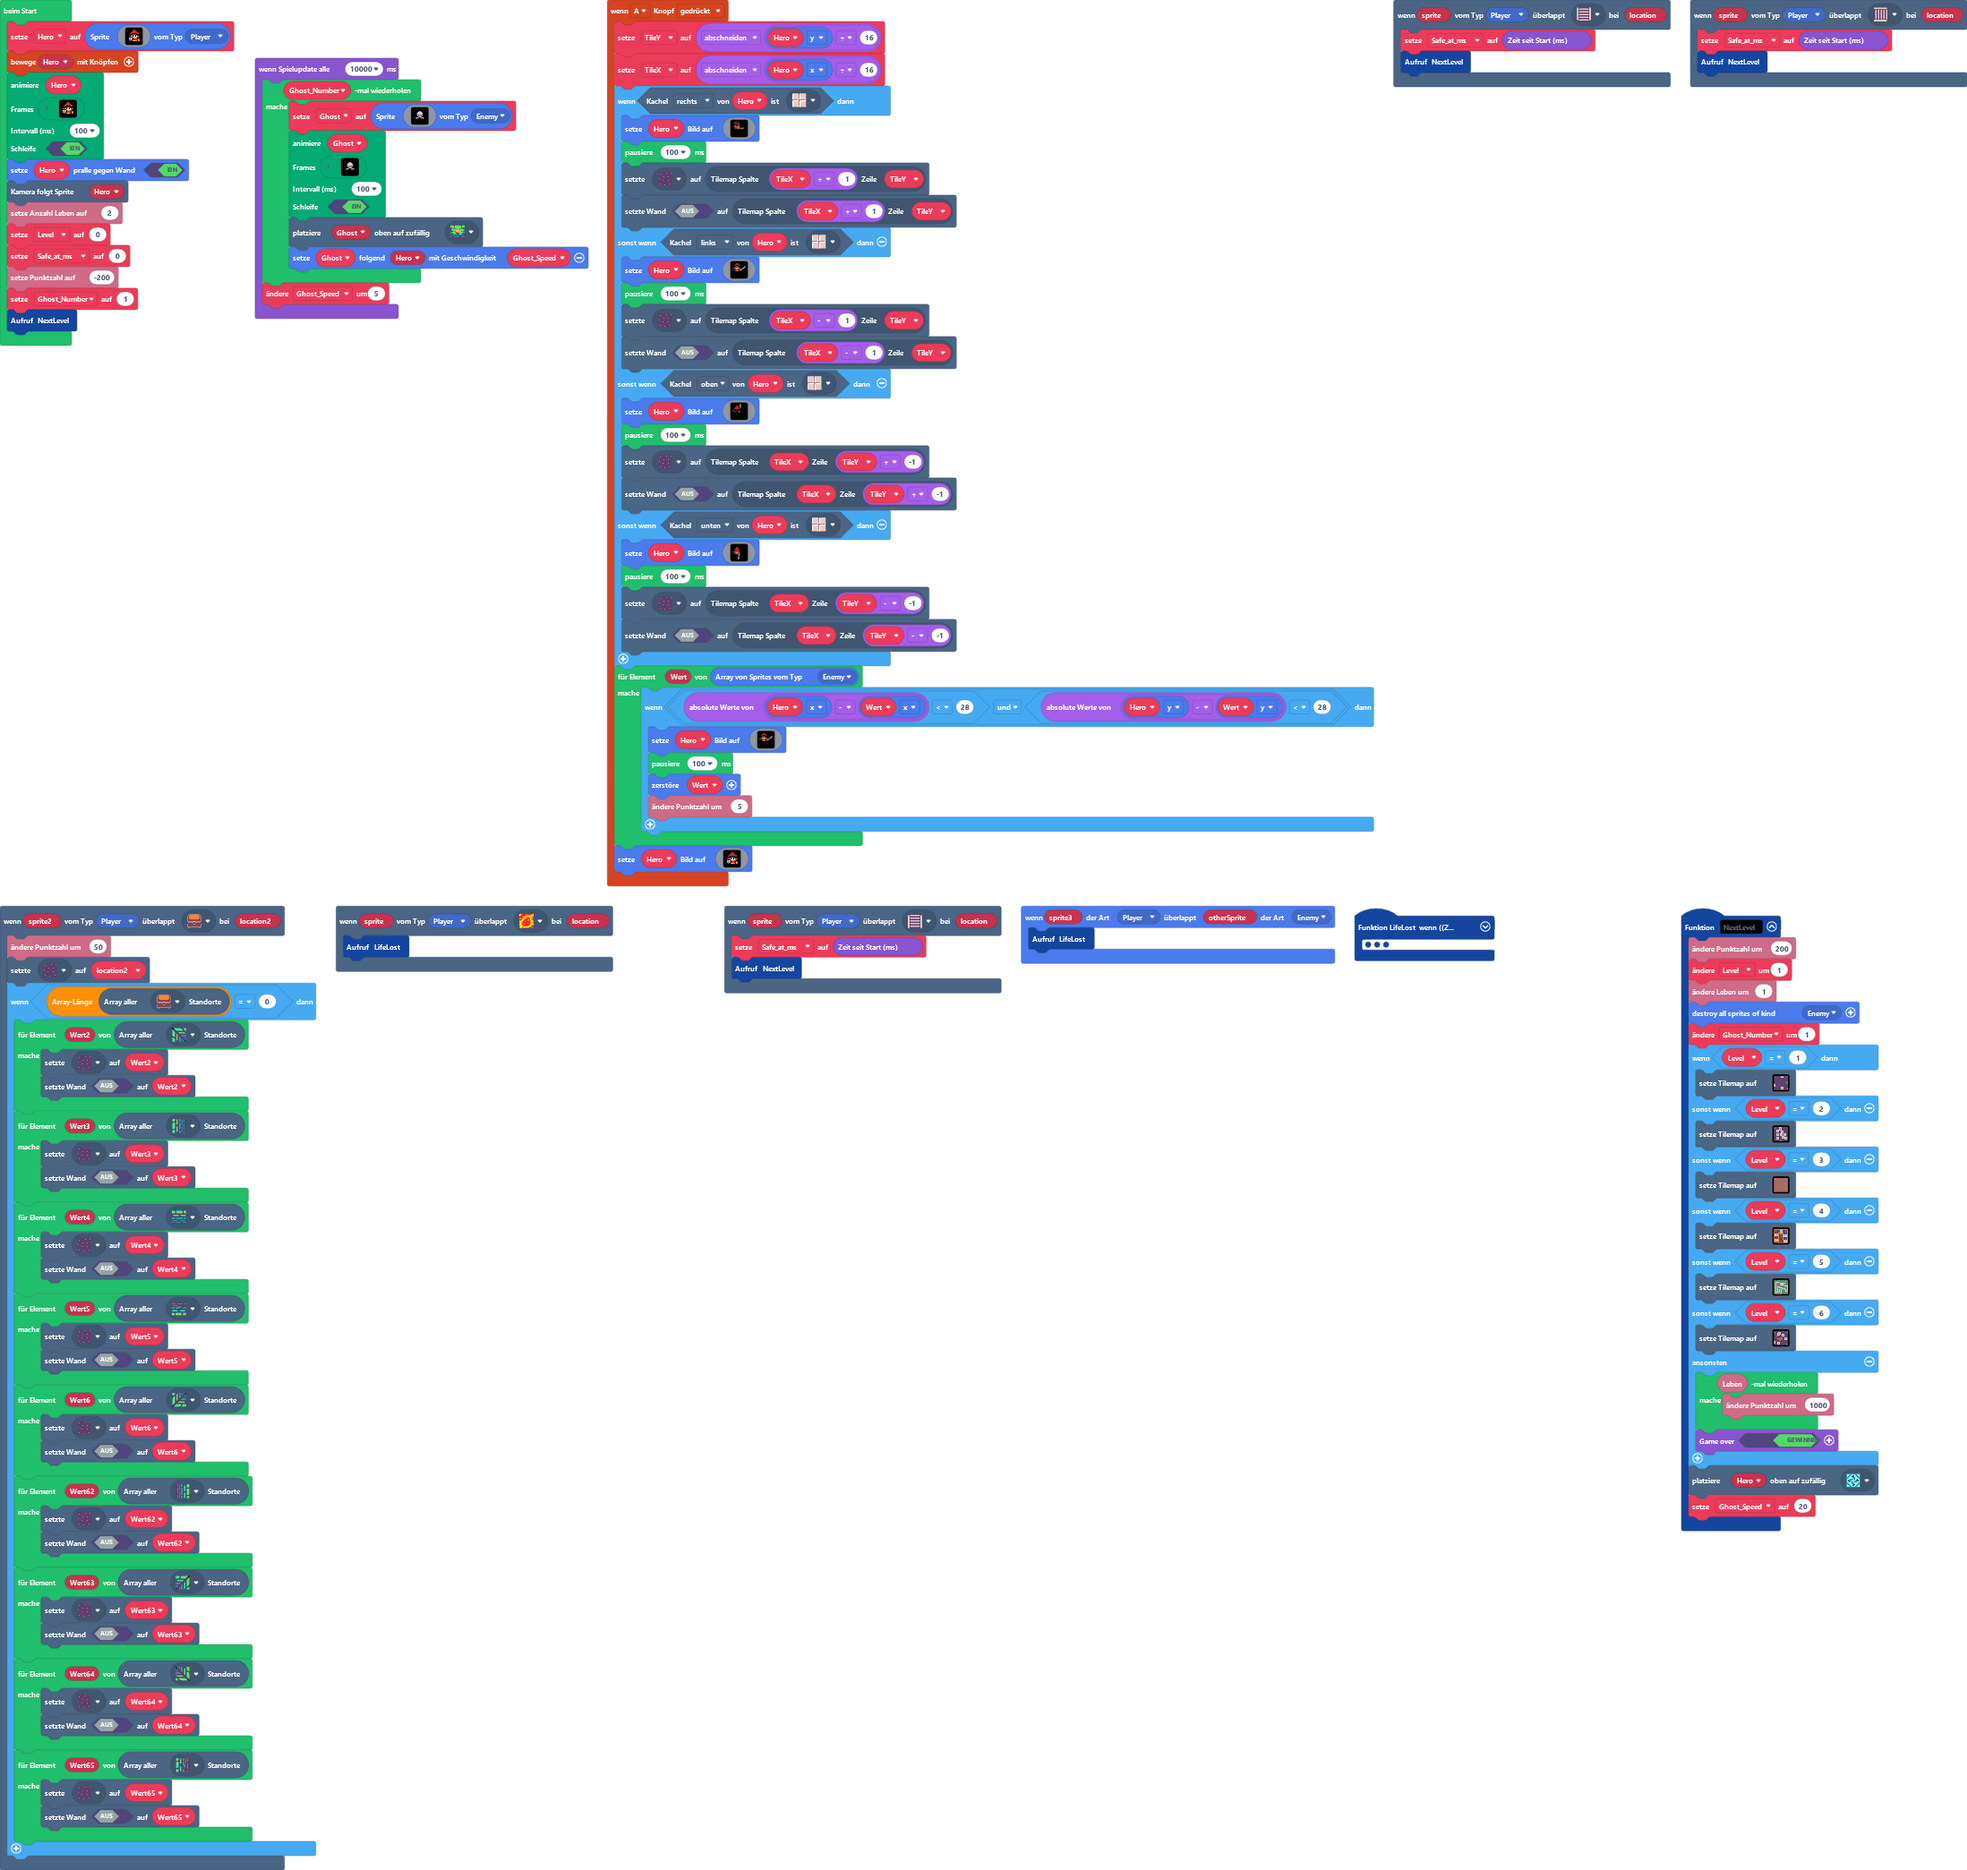
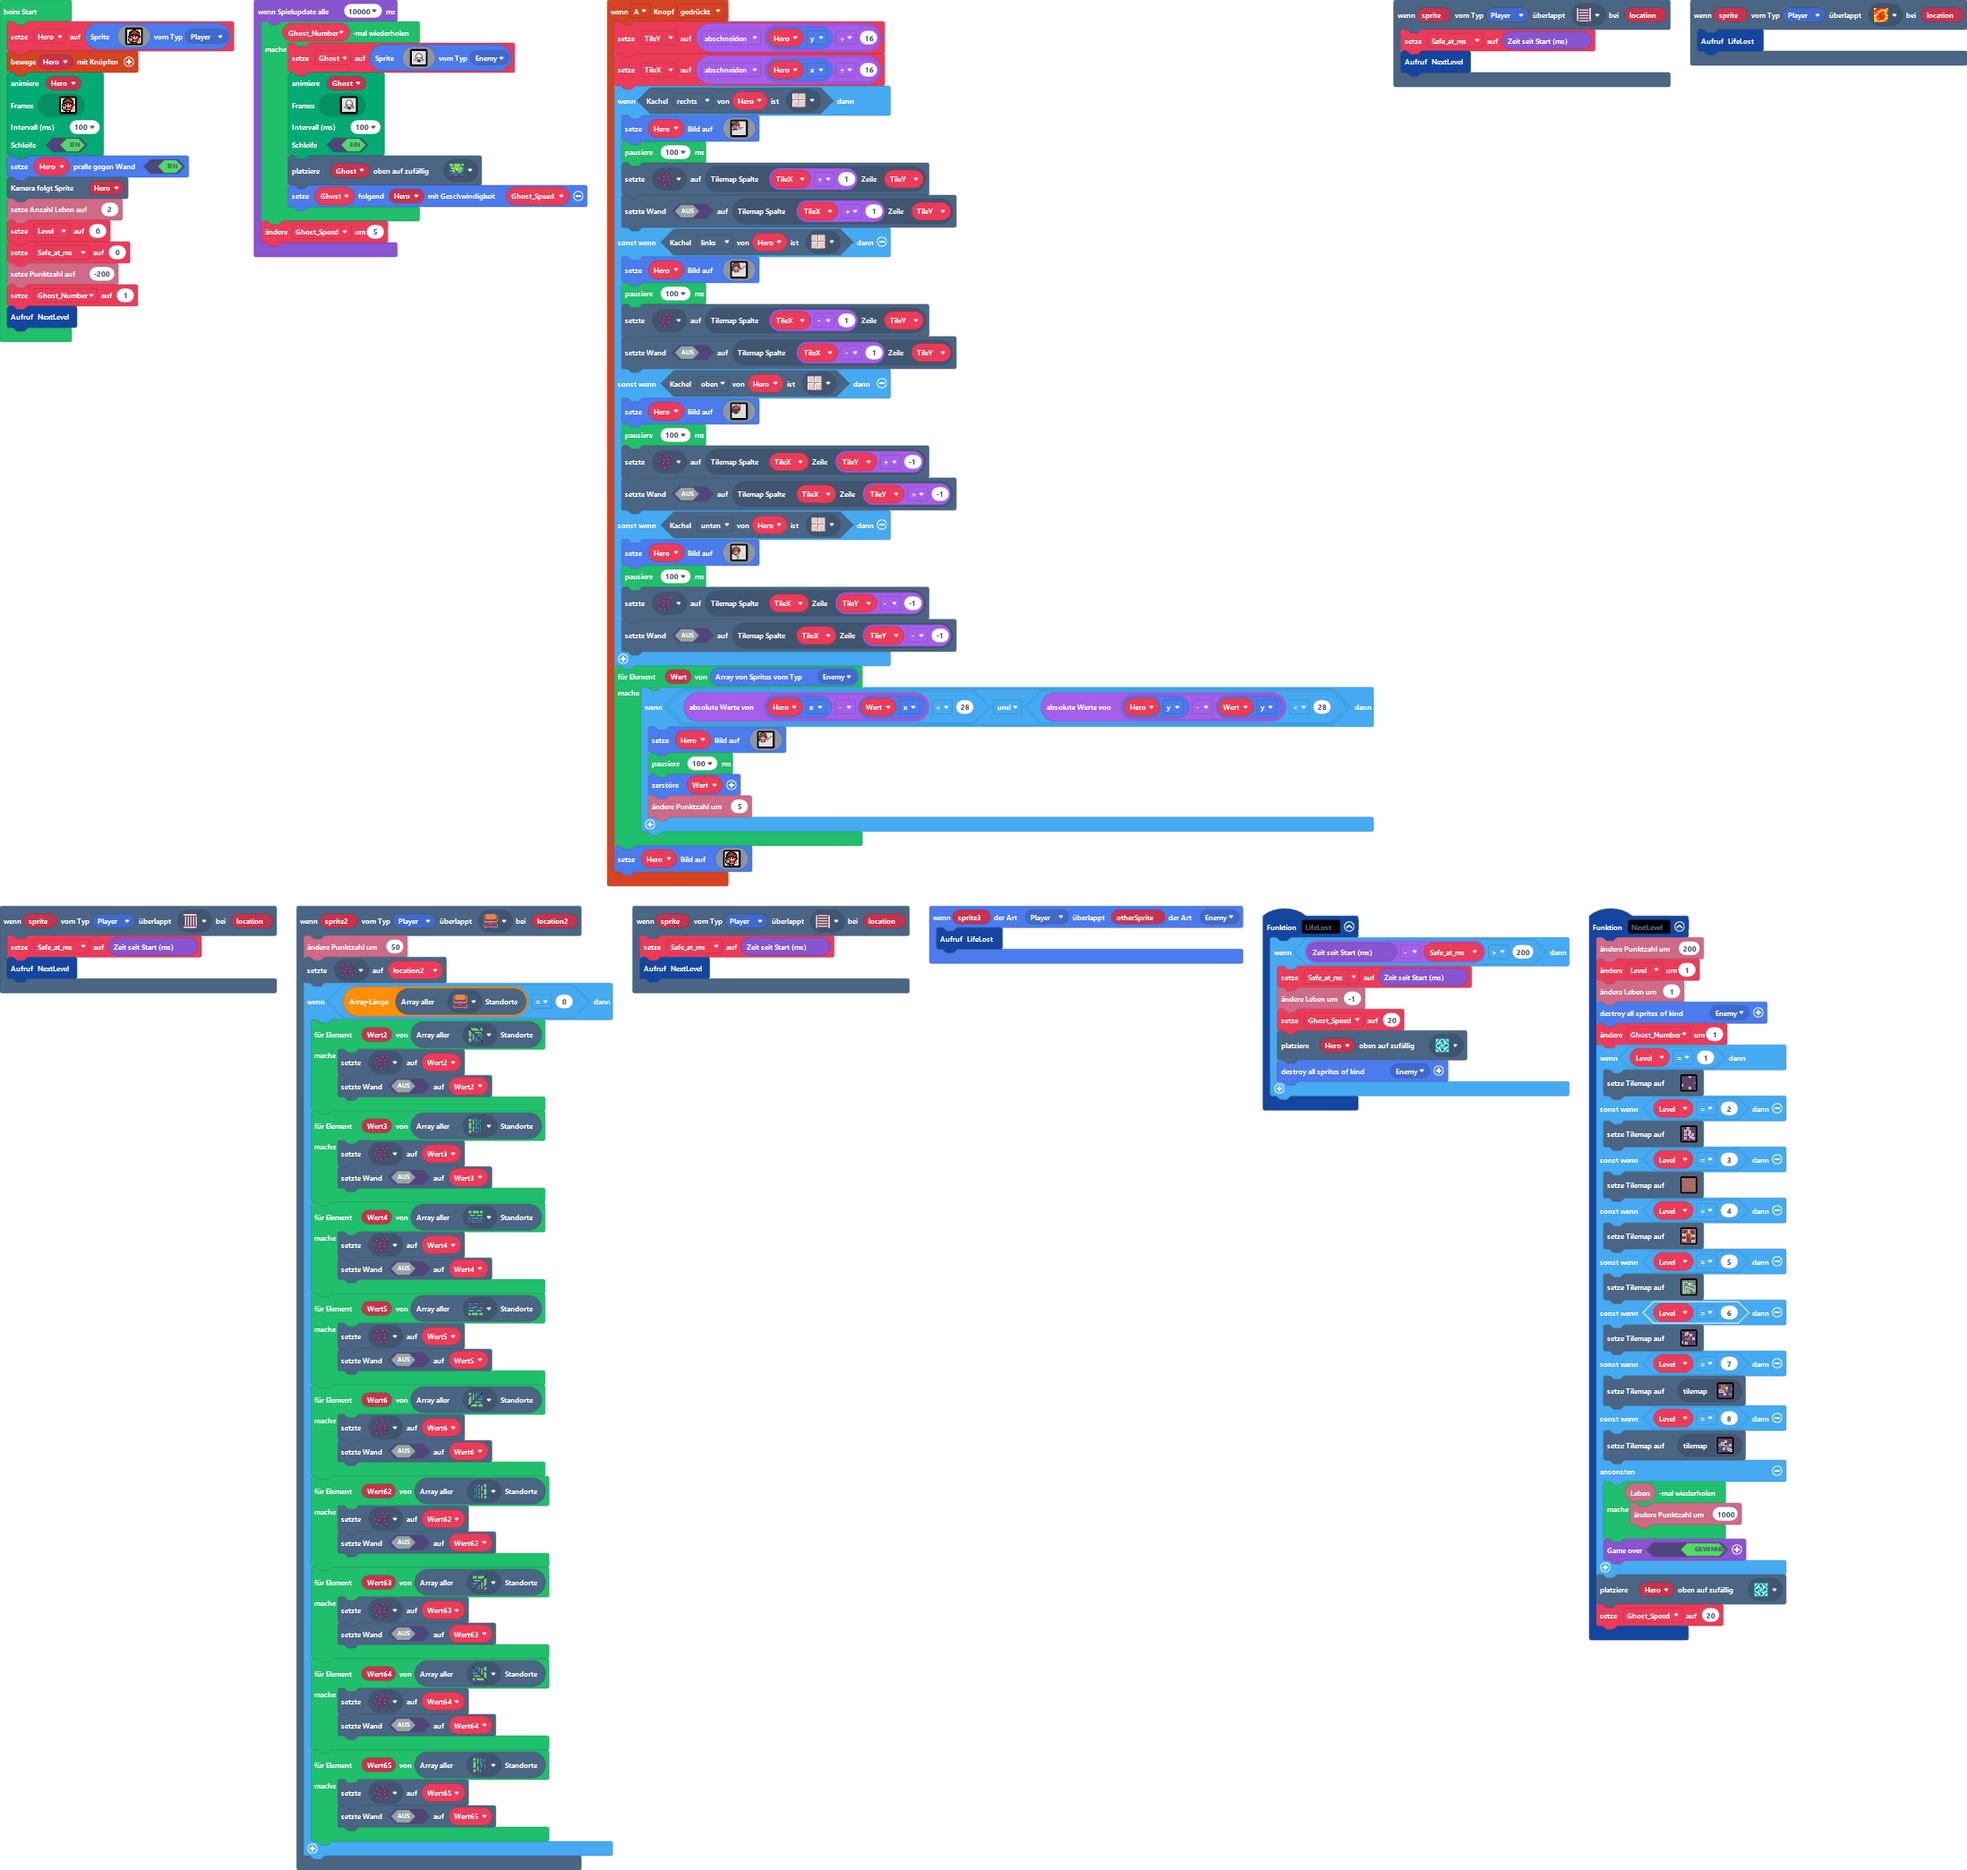
Aktualisiere pxt.json, main.blocks, main.ts, tilemap.g.jres, tilemap.g.ts

diff --git a/tilemap.g.ts b/tilemap.g.ts
@@ -121,25 +121,6 @@ namespace myTiles {
 . . . . . . . . . . . 2 2 2 2 . 
 . . . . . . . . . . . . . . . . 
 `, [myTiles.transparency16,myTiles.tile1,sprites.dungeon.darkGroundCenter,sprites.dungeon.collectibleInsignia,sprites.dungeon.greenOuterSouth0,sprites.dungeon.greenOuterSouthEast,sprites.dungeon.greenOuterSouthWest,sprites.dungeon.greenOuterWest1,sprites.dungeon.greenOuterEast0,sprites.dungeon.chestClosed,sprites.dungeon.greenOuterNorth2,sprites.dungeon.stairSouth,sprites.dungeon.hazardLava0], TileScale.Sixteen);
-            case "Level_7":
[1 lines of base64/hex data omitted]
-. . . . . . . . . . . . . . . . 
-. . . . . . . . . . . . . . . . 
-. . . . . . . . . . . . . . . . 
-. . . . . . . . 2 2 2 . . . . . 
-. . . . . . . . 2 . 2 . . . 2 2 
-. . . . . . . . 2 2 2 . . . 2 . 
-. 2 2 2 . . . . . . . . . . 2 2 
-. 2 . 2 2 2 2 . . . . . . . . . 
-. 2 . . . . 2 . . . . . . . . . 
-. 2 2 2 2 2 2 . . . . . . . . . 
-. . . . . . 2 2 2 . . . . . . . 
-. . . . . . 2 . 2 . . . . . . . 
-. . . . . . 2 2 2 . . . . . . . 
-. . . . . . . . . . . . . . . . 
-. . . . . . . . . . . . . . . . 
-. . . . . . . . . . . . . . . . 
-`, [myTiles.transparency16,sprites.dungeon.darkGroundCenter,sprites.dungeon.chestClosed,sprites.dungeon.floorLight0,sprites.dungeon.collectibleInsignia,sprites.dungeon.greenOuterNorth2,sprites.dungeon.stairWest,sprites.dungeon.greenOuterNorthWest,sprites.dungeon.greenOuterNorth0,sprites.dungeon.greenOuterWest1,sprites.dungeon.greenOuterSouthEast,sprites.dungeon.greenOuterSouth0,sprites.dungeon.hazardLava0], TileScale.Sixteen);
             case "Level7":
             case "Level7":return tiles.createTilemap(hex`1000100000000000000000000000000000000000000000000000000000000000000000000000000000000000000000000000000000000000000000000000000000000000000000000000000000000000000000000000000000000000000000000000000000000000000000000000000000000000000000000000000000000000000000000000000000000000000000000000000000000000000000000000000000000000000000000000000000000000000000000000000000000000000000000000000000000000000000000000000000000000000000000000000000000000000000000000000000000000000000000000000000000000000000000000000000000000`, img`
 . . . . . . . . . . . . . . . . 
@@ -218,6 +199,63 @@ namespace myTiles {
 `, [myTiles.transparency16], TileScale.Sixteen);
             case "Level11":
             case "Level11":return tiles.createTilemap(hex`1000100000000000000000000000000000000000000000000000000000000000000000000000000000000000000000000000000000000000000000000000000000000000000000000000000000000000000000000000000000000000000000000000000000000000000000000000000000000000000000000000000000000000000000000000000000000000000000000000000000000000000000000000000000000000000000000000000000000000000000000000000000000000000000000000000000000000000000000000000000000000000000000000000000000000000000000000000000000000000000000000000000000000000000000000000000000000`, img`
+. . . . . . . . . . . . . . . . 
+. . . . . . . . . . . . . . . . 
+. . . . . . . . . . . . . . . . 
+. . . . . . . . . . . . . . . . 
+. . . . . . . . . . . . . . . . 
+. . . . . . . . . . . . . . . . 
+. . . . . . . . . . . . . . . . 
+. . . . . . . . . . . . . . . . 
+. . . . . . . . . . . . . . . . 
+. . . . . . . . . . . . . . . . 
+. . . . . . . . . . . . . . . . 
+. . . . . . . . . . . . . . . . 
+. . . . . . . . . . . . . . . . 
+. . . . . . . . . . . . . . . . 
+. . . . . . . . . . . . . . . . 
+. . . . . . . . . . . . . . . . 
+`, [myTiles.transparency16], TileScale.Sixteen);
+            case "Level12":
+            case "Level12":return tiles.createTilemap(hex`1000100000000000000000000000000000000000000000000000000000000000000000000000000000000000000000000000000000000000000000000000000000000000000000000000000000000000000000000000000000000000000000000000000000000000000000000000000000000000000000000000000000000000000000000000000000000000000000000000000000000000000000000000000000000000000000000000000000000000000000000000000000000000000000000000000000000000000000000000000000000000000000000000000000000000000000000000000000000000000000000000000000000000000000000000000000000000`, img`
+. . . . . . . . . . . . . . . . 
+. . . . . . . . . . . . . . . . 
+. . . . . . . . . . . . . . . . 
+. . . . . . . . . . . . . . . . 
+. . . . . . . . . . . . . . . . 
+. . . . . . . . . . . . . . . . 
+. . . . . . . . . . . . . . . . 
+. . . . . . . . . . . . . . . . 
+. . . . . . . . . . . . . . . . 
+. . . . . . . . . . . . . . . . 
+. . . . . . . . . . . . . . . . 
+. . . . . . . . . . . . . . . . 
+. . . . . . . . . . . . . . . . 
+. . . . . . . . . . . . . . . . 
+. . . . . . . . . . . . . . . . 
+. . . . . . . . . . . . . . . . 
+`, [myTiles.transparency16], TileScale.Sixteen);
+            case "Level_7":
[1 lines of base64/hex data omitted]
+. . . . . . . . . . . . . . . . 
+. . . . . . . . . . . . . . . . 
+. . . . . . . . . . . . . . . . 
+. . . . . . . . 2 2 2 . . . . . 
+. . . . . . . . 2 . 2 . . . 2 2 
+. . . . . . . . 2 2 2 . . . 2 . 
+. 2 2 2 . . . . . . . . . . 2 2 
+. 2 . 2 2 2 2 . . . . . . . . . 
+. 2 . . . . 2 . . . . . . . . . 
+. 2 2 2 2 2 2 . . . . . . . . . 
+. . . . . . 2 2 2 . . . . . . . 
+. . . . . . 2 . 2 . . . . . . . 
+. . . . . . 2 2 2 . . . . . . . 
+. . . . . . . . . . . . . . . . 
+. . . . . . . . . . . . . . . . 
+. . . . . . . . . . . . . . . . 
+`, [myTiles.transparency16,sprites.dungeon.darkGroundCenter,sprites.dungeon.chestClosed,sprites.dungeon.floorLight0,sprites.dungeon.collectibleInsignia,sprites.dungeon.greenOuterNorth2,sprites.dungeon.stairWest,sprites.dungeon.greenOuterNorthWest,sprites.dungeon.greenOuterNorth0,sprites.dungeon.greenOuterWest1,sprites.dungeon.greenOuterSouthEast,sprites.dungeon.greenOuterSouth0,sprites.dungeon.hazardLava0], TileScale.Sixteen);
+            case "Level13":
+            case "Level13":return tiles.createTilemap(hex`1000100000000000000000000000000000000000000000000000000000000000000000000000000000000000000000000000000000000000000000000000000000000000000000000000000000000000000000000000000000000000000000000000000000000000000000000000000000000000000000000000000000000000000000000000000000000000000000000000000000000000000000000000000000000000000000000000000000000000000000000000000000000000000000000000000000000000000000000000000000000000000000000000000000000000000000000000000000000000000000000000000000000000000000000000000000000000`, img`
 . . . . . . . . . . . . . . . . 
 . . . . . . . . . . . . . . . . 
 . . . . . . . . . . . . . . . . 

diff --git a/main.ts b/main.ts
@@ -115,6 +115,10 @@ function NextLevel () {
         tiles.setTilemap(tilemap`Level_5`)
     } else if (Level == 6) {
         tiles.setTilemap(tilemap`Level_6`)
+    } else if (Level == 7) {
+        tiles.setCurrentTilemap(tilemap`Level_7`)
+    } else if (Level == 8) {
+        tiles.setCurrentTilemap(tilemap`Level_8`)
     } else {
         for (let index = 0; index < info.life(); index++) {
             info.changeScoreBy(1000)
